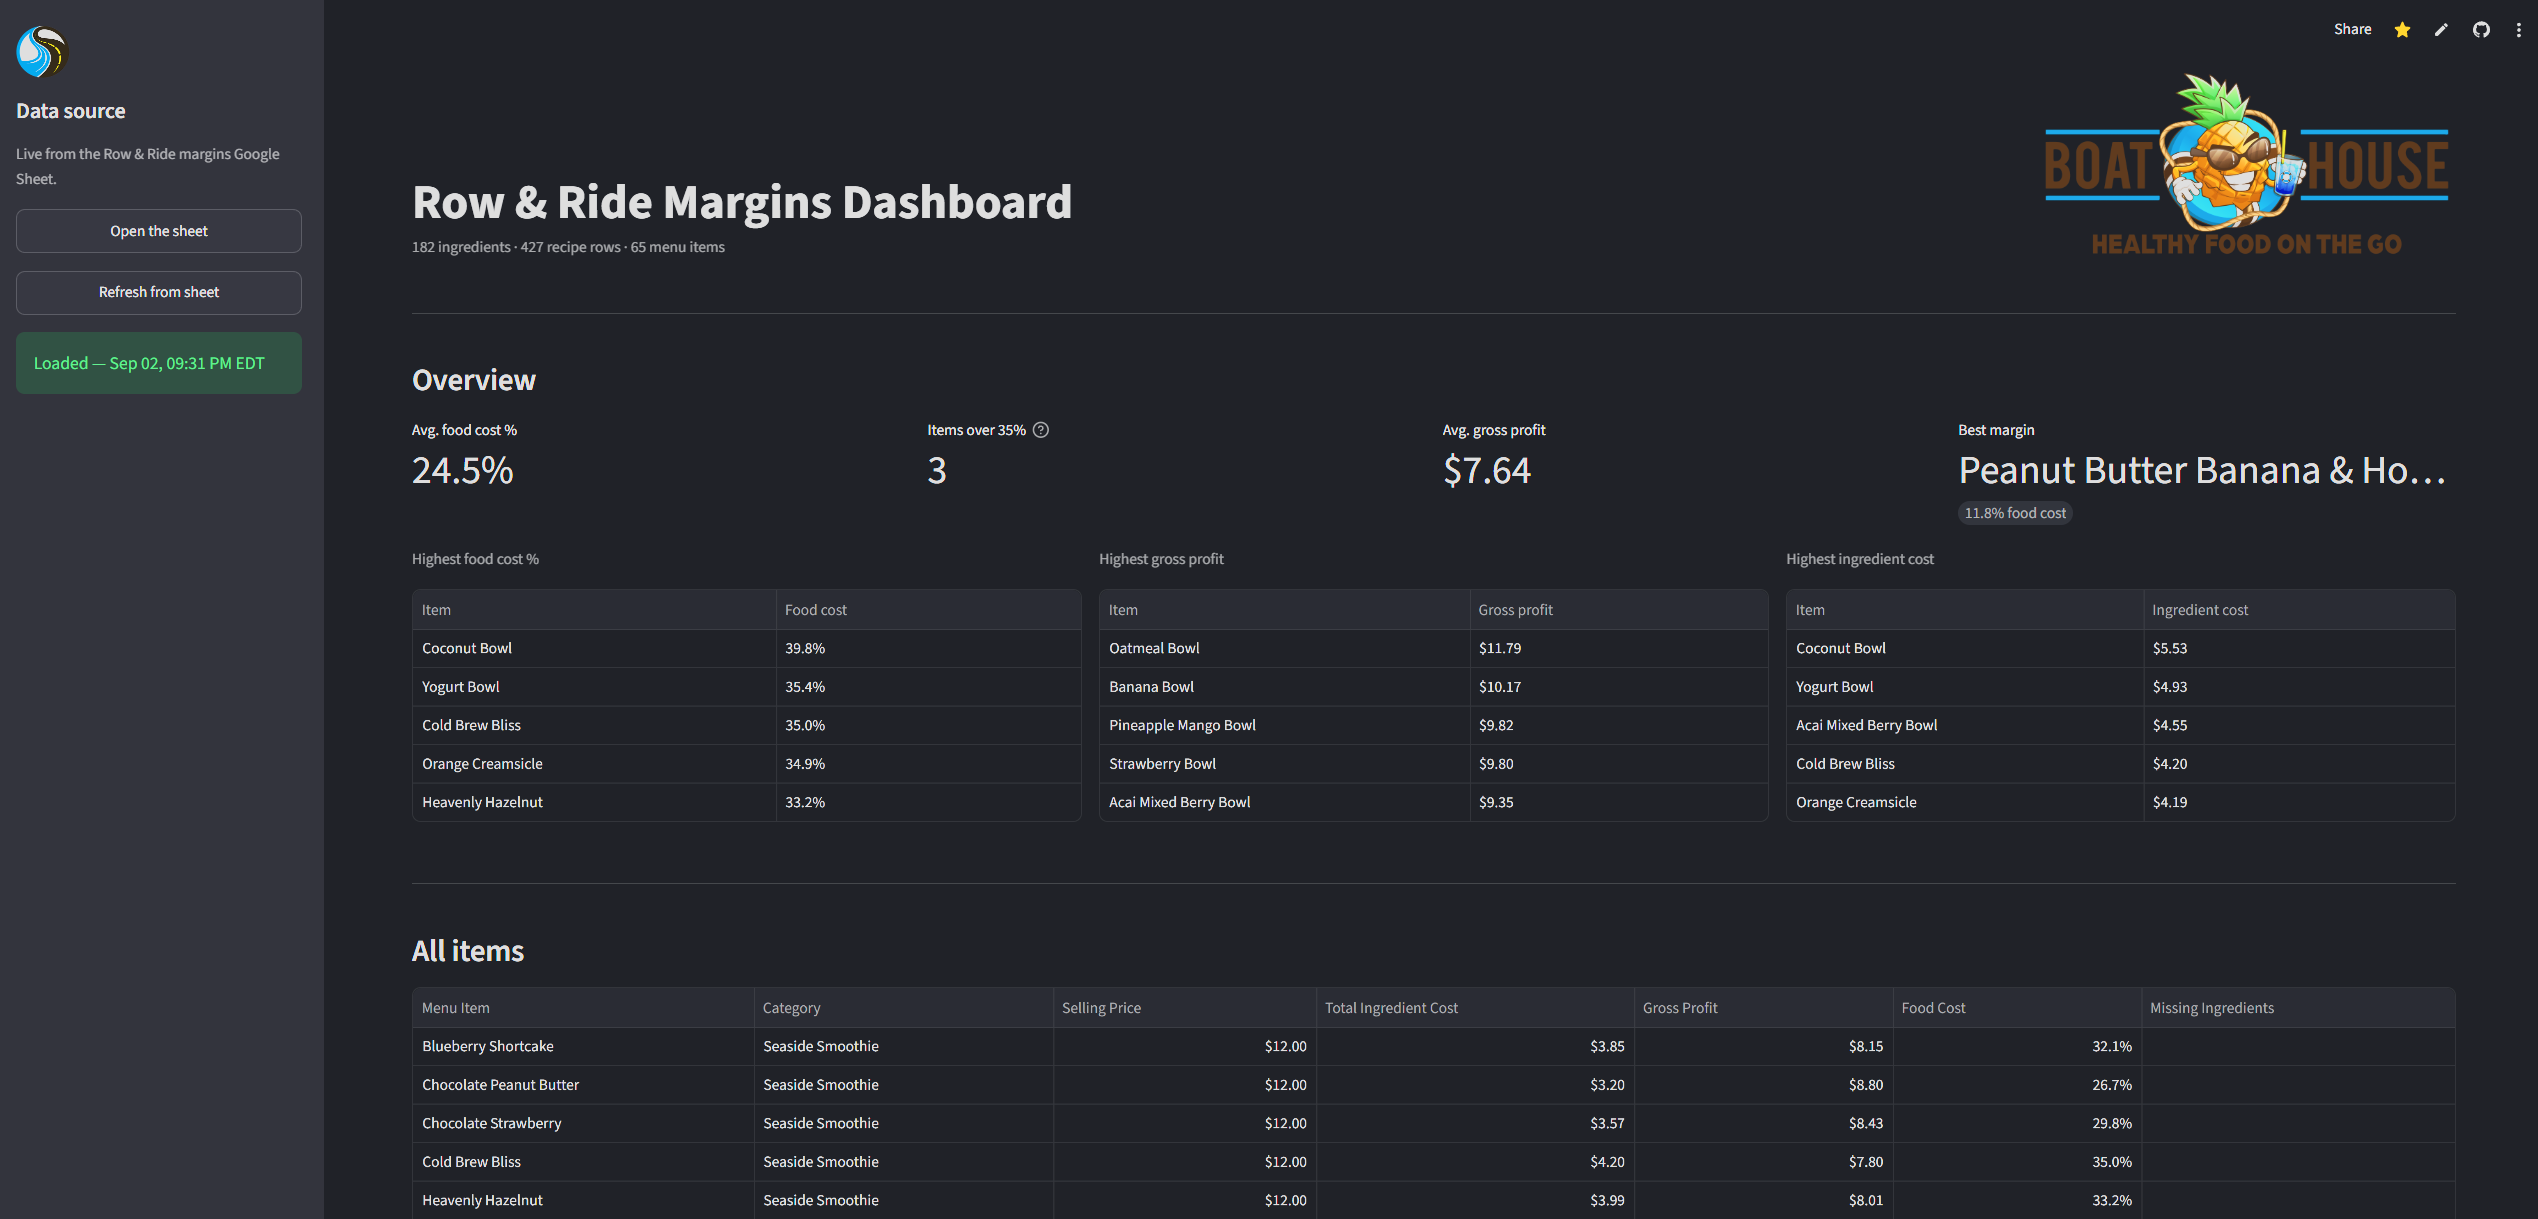
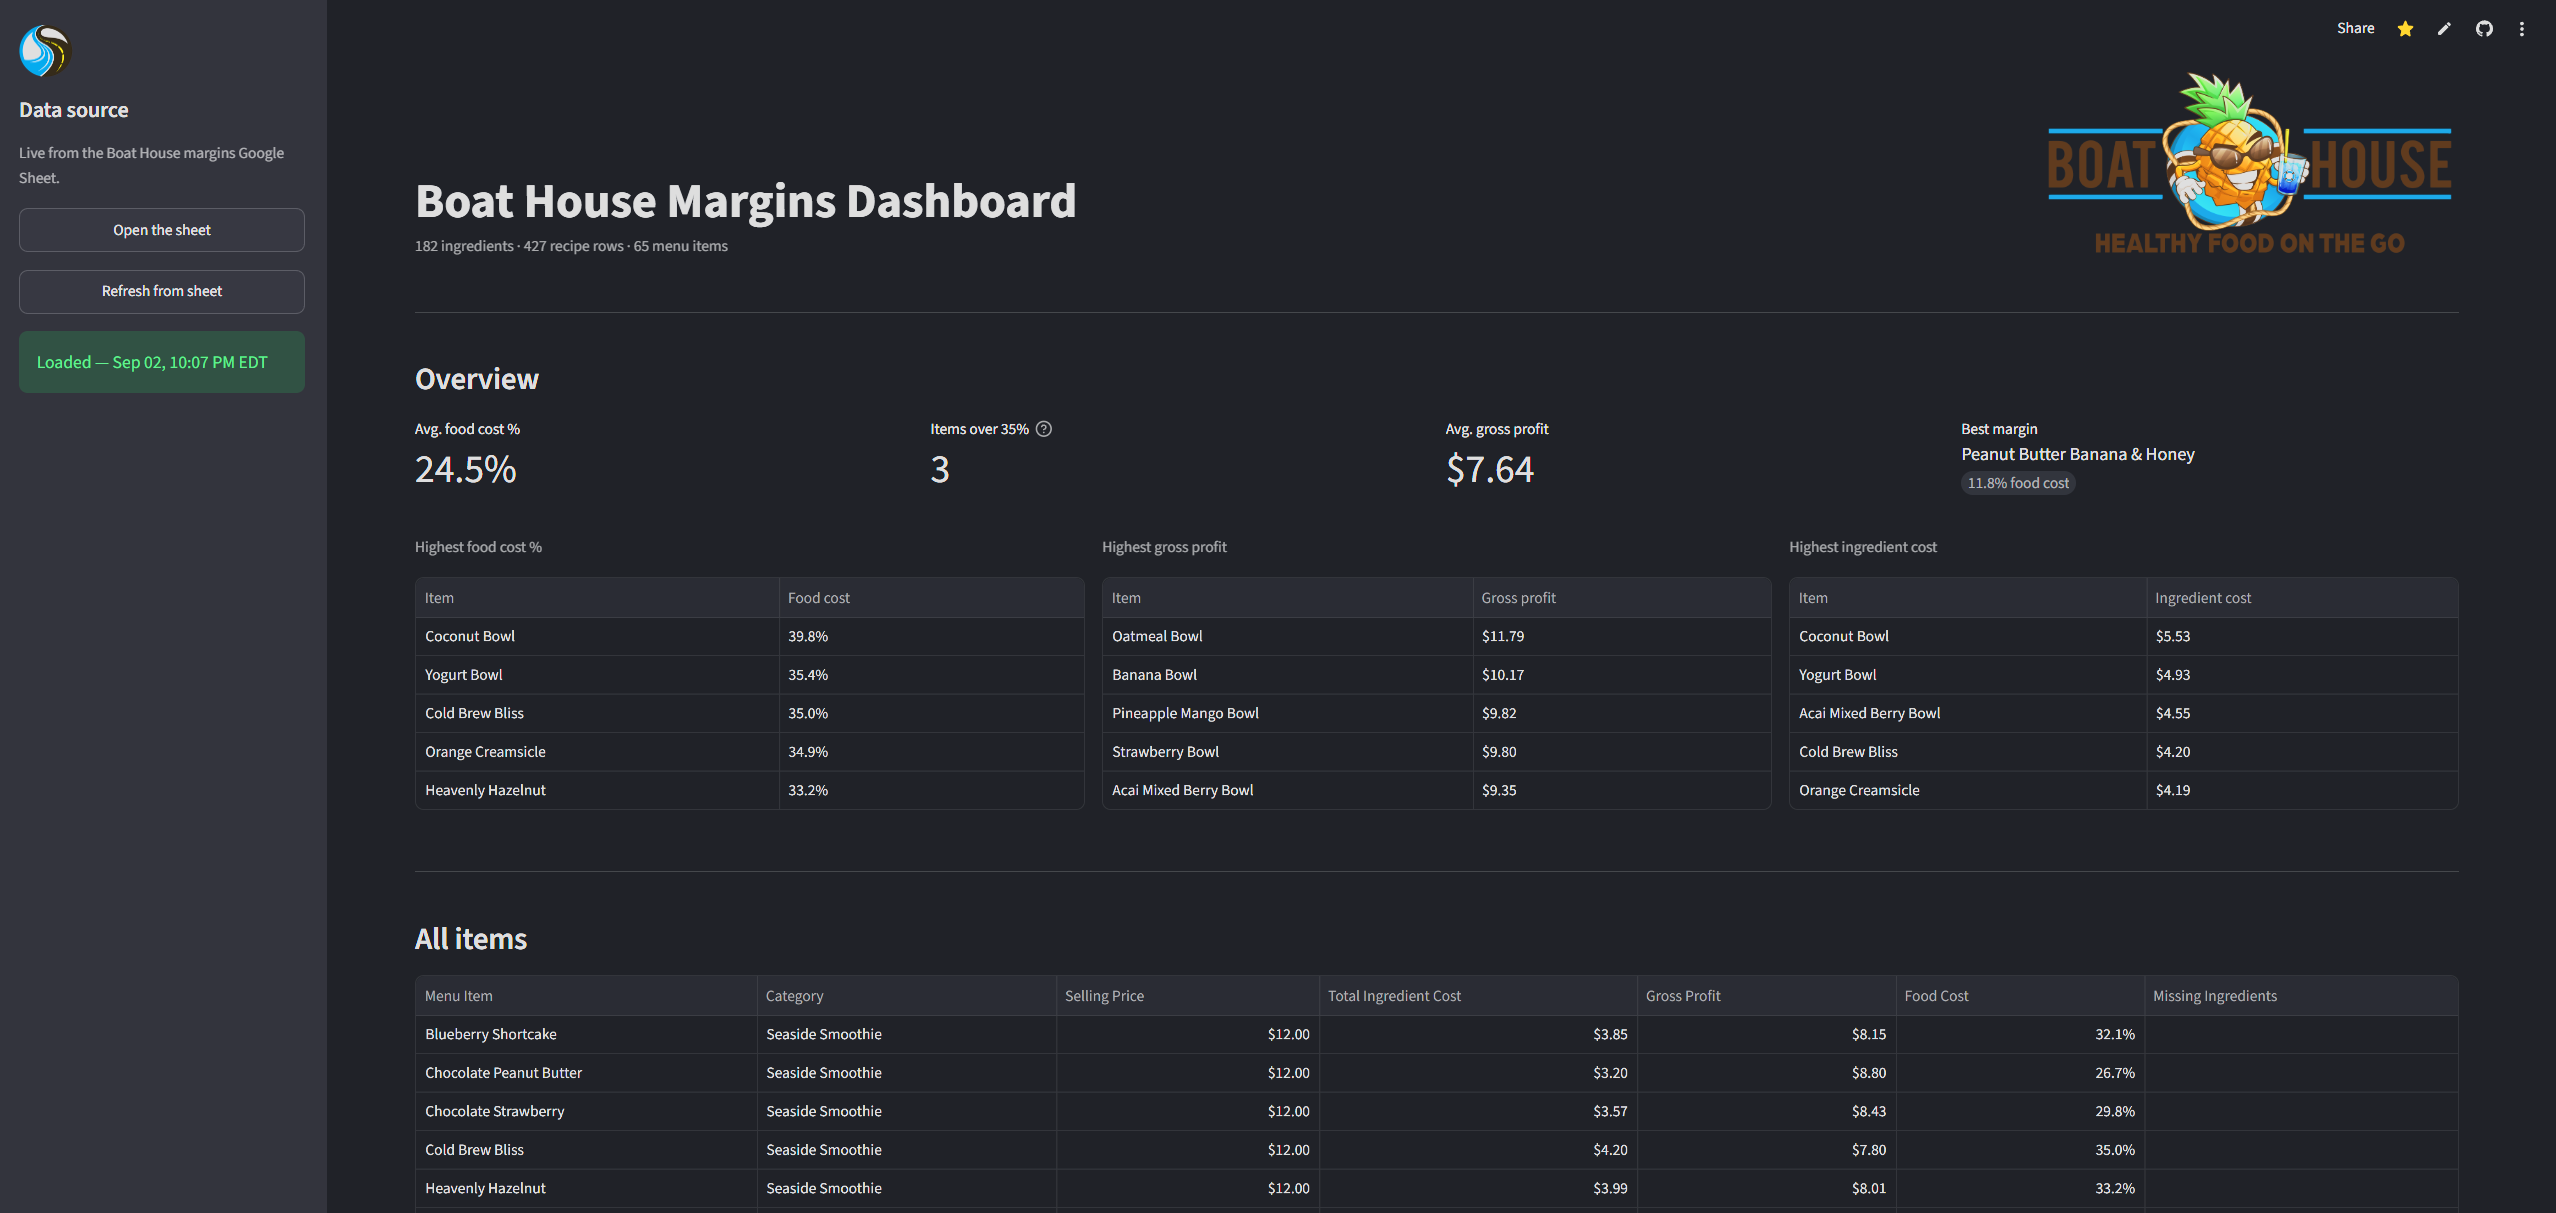
Polish README.md + new screenshot

diff --git a/README.md b/README.md
@@ -6,28 +6,29 @@ A margins dashboard for a smoothie and bowl bar, replacing a hand-maintained Goo
 
 ## Why
 
-Boat House's menu margins lived in a spreadsheet where every ingredient cost, recipe cost, and food-cost % was worked out by hand. Changing one ingredient's purchase price meant re-checking the math on every menu item that used it. This tool reads the same source data and recomputes the entire margin report automatically, so a price change propagates everywhere the moment the sheet is saved.
+Boat House runs on Clover for sales and inventory, but Clover doesn't compute what a drink costs to make or its food cost percentage. That math lived in a spreadsheet instead, worked out by hand — so every time an ingredient's price changed, someone had to hunt down every menu item that used it and redo the numbers. This tool reads the same spreadsheet and does that recalculation automatically: update one ingredient's cost, and every item it touches is right again on the next refresh.
 
 ## How it works
 
 The live data is three Google Sheet tabs: an ingredient database (purchase sizes and costs), a recipe sheet (ingredient amounts per menu item), and a menu list (selling prices). On load, the app:
 
-1. pulls each tab through a read-only service account and validates the required columns, raising a clear error rather than a deep `KeyError` if the shape is wrong;
-2. parses currency strings (`$3.20`, `65%`) into numbers, distinguishing a genuine blank from a malformed value;
-3. recomputes each ingredient's **cost per recipe unit** from purchase cost ÷ purchase size — *not* read from the sheet's stored column, which goes stale the moment a price changes;
-4. multiplies by the amount used in each recipe, rolls the line costs up per menu item, and derives gross profit, margin %, and food cost %.
+1. pulls each tab through a read-only service account and validates the required columns, raising a clear error rather than a confusing `KeyError` further down.
+2. parses currency strings (`$3.20`, `65%`) into numbers, distinguishing a genuine blank from a malformed value.
+3. recomputes each ingredient's **cost per recipe unit** from purchase cost ÷ purchase size. The sheet holds raw inputs only, so a stored per-unit cost would silently keep the old number when a price changes; recomputing means it can't.
+4. multiplies by the amount used in each recipe, sums the line costs up per menu item, and derives total ingredient cost, gross profit, and food cost %.
 
-The output is a sortable table plus a few headline stats (average food cost %, items over a watch threshold, top items by cost and by profit).
+The output is a sortable table plus a few headline stats (average food cost %, items over a food cost % watch threshold, top items by cost and by profit).
 
 ## Design decisions
 
-- **Missing cost data returns `None`, never `$0`.** An unpriced or unmatched ingredient is collected and surfaced in the UI — a silent zero would make a margin look healthier than it is.
-- **Unit conversions are isolated and commented.** Only two exist: `lbs → oz` (×16) and a business-specific `tea bags → fl oz` yield assumption; everything else is same-unit. Each is a labelled branch in one function, not arithmetic scattered through the code.
-- **The core math is pure.** `cost_per_recipe_unit`, `calculate_gross_profit`, and the rest take plain numbers and return plain numbers — no pandas, no file I/O — so they're tested directly against known values.
+- **Missing cost data returns `None`, never `$0`.** An unpriced or unmatched ingredient is flagged in the UI, since a silent zero would make a margin look healthier than it is.
+- **Unit conversions live in one place.** Only two exist: `lbs -> oz` (x16) and a business-specific `tea bags -> fl oz` yield calculation; everything else is same-unit. Each are commented branches in one function.
+- **The core math is pure.** `cost_per_recipe_unit`, `calculate_gross_profit`, and the rest take plain numbers and return plain numbers (no pandas, no file I/O) so they're tested directly against known values.
+- **Bowl toppings use a representative set.** Bowls sell for one price "including any 4 toppings," but their recipes listed none, so every bowl came out cheaper than it really is with margins to match. Each bowl now carries the four most common toppings as ordinary ingredient lines, flagged in the notes as representative rather than measured.
 
 ## Testing
 
-A `pytest` suite covers the pure functions and the full pipeline end to end. The pipeline tests assert against the exact figures from the original hand-maintained Google Sheet, so the port is provably faithful to what the shop was already using. The fixtures are frozen snapshots — they don't move when live prices change, so a failing test means the code changed, not the data.
+A `pytest` suite covers the pure functions and the full pipeline end to end. The pipeline tests assert against the exact figures from the original hand-maintained Google Sheet, so the port is provably faithful to what the Boat House was already using. The fixtures are frozen snapshots: they don't move when live prices change, so a failing test means the code changed, not the data.
 
 ```
 python -m pytest
@@ -46,8 +47,8 @@ pip install -r requirements.txt
 python -m streamlit run app.py
 ```
 
-The Google Sheet is read through a service account. Copy `.streamlit/secrets.toml.example` to `.streamlit/secrets.toml` and fill in a service-account key JSON under `[gcp_service_account]`; the target sheet must be shared with that account as a viewer. Without it the app still starts and explains what's missing.
+The Google Sheet is read through a service account. Copy `.streamlit/secrets.toml.example` to `.streamlit/secrets.toml` and fill in a service-account key JSON under `[gcp_service_account]`; the target sheet must be shared with that account as a viewer (without it the app still starts and explains what's missing.)
 
 ## Deployment
 
-The live app is private, it reads a real business's ingredient costs and vendor data.
+The live app is private, as it reads a real business's ingredient costs and vendor data.
